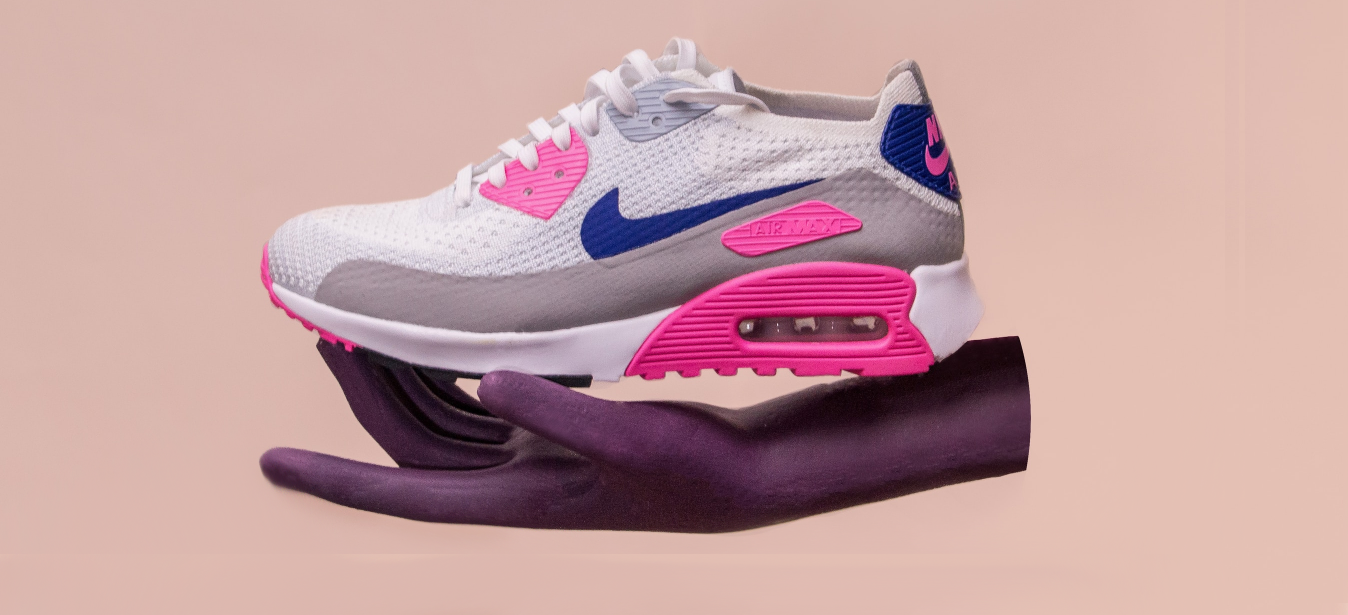
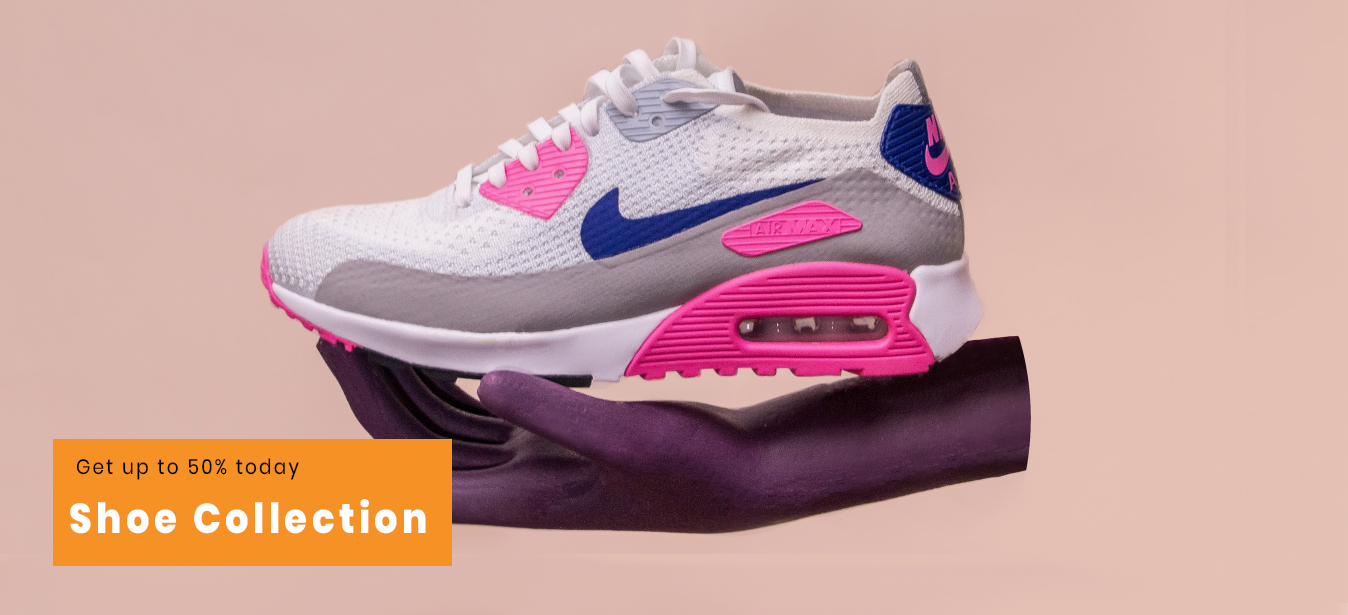
updated slider

Changed region(s): [[0.0312, 0.7106, 0.3427, 0.9268]]

diff --git a/index.html b/index.html
@@ -74,26 +74,19 @@
             <li data-target="#products-carousel" data-slide-to="2"></li>
           </ol>
           <div class="products-sliders text-center carousel-inner">
-            <div class="products-slide slide2 carousel-item active">
+            <div class="products-slide slide1 carousel-item active">
+              <img src="img/Rectangle.png" alt="">
             </div>
 
             <div class="products-slide slide2 carousel-item">
+              <img src="img/hood.jpg" alt="">
             </div>
 
             <div class="products-slide slide3 carousel-item">
+              <img src="img/nikeshoe.png" alt="">
             </div>
           </div>
         </div>
-    <!-- <picture>
-      <source media="(min-width:650px)" srcset="img/Rectangle.png" width="100%" height="650px">
-      <source media="(min-width:465px)" srcset="img/resp.png" width="1349px" height="650px">
-      <img src="img/resp.png" alt=" Flowers" style="width:auto;">
-    </picture>
-    <!- <img src="img/Rectangle.png" alt="" width="1349px" height="650px"> ->
-    <div id="overlay" class="p-2">
-      <small class="">Get up to 50% today</small>
-      <h2 class="text-white display-4">Shoe Collection</h2>
-    </div> -->
   </div>
   <main class="container mt-5">
     <h3 class="text-center m-5">Exclusive Product</h3>

diff --git a/css/style.css b/css/style.css
@@ -30,11 +30,6 @@ header {
 	font-weight: bolder;
 }
 
-a.current {
-	text-decoration: underline;
-	text-decoration-color: #f69225;
-}
-
 h1,
 h2,
 h3,
